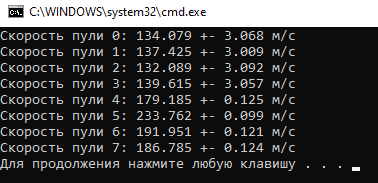
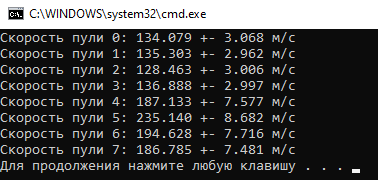
mistake corrected

diff --git a/Lab_1.2.1.py b/Lab_1.2.1.py
@@ -2,8 +2,8 @@
 import numpy as np
 from math import sqrt, pi
 
-m_1 = np.array([0.500, 0.510, 0.496, 0.502]) / 1e3
-m_2 = np.array([0.518, 0.512, 0.509, 0.510]) / 1e3
+m_1 = np.array([0.500, 0.518, 0.510, 0.512]) / 1e3
+m_2 = np.array([0.496, 0.509, 0.502, 0.510]) / 1e3
 dx_1 = np.array([11, 11.5, 10.75, 11.5]) / 1e3
 dx_2 = np.array([9.5, 12.25, 10, 9.75]) / 1e2
 L = 223 / 1e2
